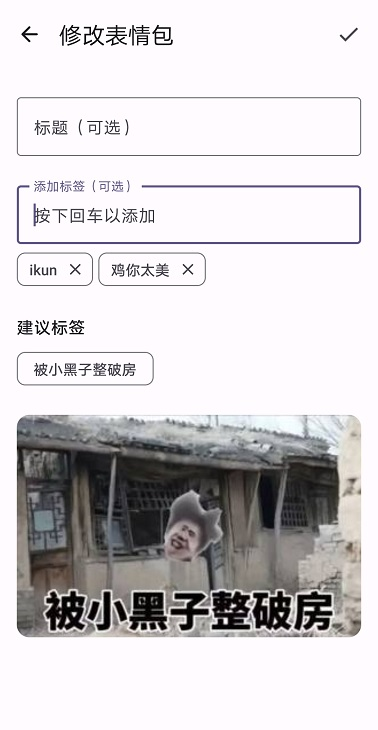
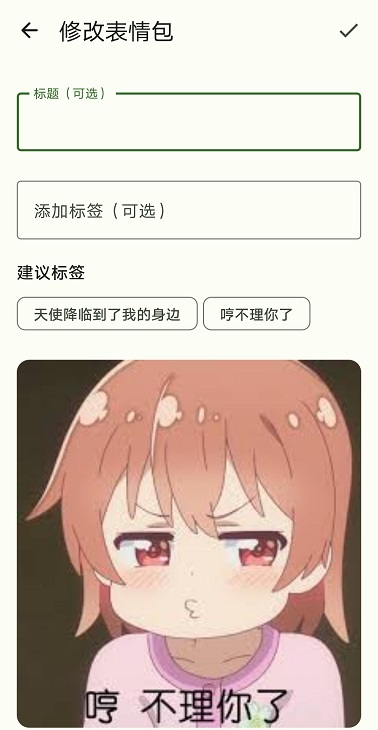
[optimize|doc]添加标签时判重；更新README

diff --git a/app/src/main/java/com/skyd/rays/ui/screen/add/AddScreen.kt b/app/src/main/java/com/skyd/rays/ui/screen/add/AddScreen.kt
@@ -32,6 +32,7 @@ import androidx.lifecycle.compose.collectAsStateWithLifecycle
 import com.skyd.rays.R
 import com.skyd.rays.appContext
 import com.skyd.rays.config.refreshStickerData
+import com.skyd.rays.ext.addIfAny
 import com.skyd.rays.ext.plus
 import com.skyd.rays.ext.popBackStackWithLifecycle
 import com.skyd.rays.model.bean.StickerBean
@@ -102,7 +103,7 @@ fun AddScreen(initStickerUuid: String, sticker: Uri?, viewModel: AddViewModel = 
                                 val stickerWithTags = StickerWithTags(
                                     sticker = StickerBean(title = titleText)
                                         .apply { uuid = stickerUuid },
-                                    tags = tags.toList()
+                                    tags = tags.distinct()
                                 )
                                 viewModel.sendUiIntent(
                                     AddIntent.AddNewStickerWithTags(stickerWithTags, stickerUri!!)
@@ -151,7 +152,7 @@ fun AddScreen(initStickerUuid: String, sticker: Uri?, viewModel: AddViewModel = 
                     keyboardOptions = KeyboardOptions(imeAction = ImeAction.Done),
                     keyboardActions = KeyboardActions(onDone = {
                         if (currentTagText.isNotBlank()) {
-                            tags.add(TagBean(tag = currentTagText))
+                            tags.addIfAny(TagBean(tag = currentTagText)) { it.tag != currentTagText }
                         } else {
                             keyboardController?.hide()
                             focusManager.clearFocus()
@@ -209,13 +210,13 @@ fun AddScreen(initStickerUuid: String, sticker: Uri?, viewModel: AddViewModel = 
                         ) {
                             repeat(stickerTexts.size) { index ->
                                 SuggestionChip(
-                                    modifier = Modifier.combinedClickable {  },
+                                    modifier = Modifier.combinedClickable { },
                                     label = { Text(stickerTexts[index]) },
                                     onClick = {
                                         val text = stickerTexts[index]
                                         stickerTexts.removeAt(index)
                                         currentTagText = text
-                                        tags.add(TagBean(tag = text))
+                                        tags.addIfAny(TagBean(tag = text)) { it.tag != text }
                                     },
                                 )
                             }
@@ -225,7 +226,7 @@ fun AddScreen(initStickerUuid: String, sticker: Uri?, viewModel: AddViewModel = 
             }
             item {
                 RaysCard(
-                    modifier = Modifier.padding(top = 20.dp),
+                    modifier = Modifier.padding(vertical = 20.dp),
                     colors = CardDefaults.cardColors(Color.Transparent),
                     onClick = { pickStickerLauncher.launch("image/*") }
                 ) {
@@ -276,7 +277,7 @@ fun AddScreen(initStickerUuid: String, sticker: Uri?, viewModel: AddViewModel = 
                     titleText = stickerBean.title
                     stickerUri = stickerUuidToUri(stickerBean.uuid)
                     tags.clear()
-                    tags.addAll(getStickersWithTagsUiState.stickerWithTags.tags)
+                    tags.addAll(getStickersWithTagsUiState.stickerWithTags.tags.distinct())
                 }
                 GetStickersWithTagsUiState.Failed -> {}
                 GetStickersWithTagsUiState.Init -> {}

diff --git a/app/src/main/java/com/skyd/rays/ui/screen/settings/SettingsScreen.kt b/app/src/main/java/com/skyd/rays/ui/screen/settings/SettingsScreen.kt
@@ -75,14 +75,14 @@ fun SettingsScreen() {
                     onClick = { navController.navigate(ML_SCREEN_ROUTE) }
                 )
             }
-            item {
-                BaseSettingsItem(
-                    icon = rememberVectorPainter(Icons.Default.AccessibilityNew),
-                    text = stringResource(id = R.string.easy_usage_screen_name),
-                    descriptionText = stringResource(id = R.string.setting_screen_easy_usage_description),
-                    onClick = { navController.navigate(EASY_USAGE_SCREEN_ROUTE) }
-                )
-            }
+//            item {
+//                BaseSettingsItem(
+//                    icon = rememberVectorPainter(Icons.Default.AccessibilityNew),
+//                    text = stringResource(id = R.string.easy_usage_screen_name),
+//                    descriptionText = stringResource(id = R.string.setting_screen_easy_usage_description),
+//                    onClick = { navController.navigate(EASY_USAGE_SCREEN_ROUTE) }
+//                )
+//            }
         }
     }
 }

diff --git a/app/src/main/java/com/skyd/rays/ext/CollectionExt.kt b/app/src/main/java/com/skyd/rays/ext/CollectionExt.kt
@@ -1,0 +1,7 @@
+package com.skyd.rays.ext
+
+inline fun <T> MutableCollection<T>.addIfAny(data: T, predicate: (T) -> Boolean) {
+    if (find { !predicate(it) } == null) {
+        this += data
+    }
+}

diff --git a/README.md b/README.md
@@ -19,7 +19,7 @@
         <a href="https://discord.gg/pEWEjeJTa3" style="text-decoration:none" >
             <img src="https://img.shields.io/discord/982522006819991622?color=5865F2&label=Discord&logo=discord&logoColor=white&style=for-the-badge" alt="Discord"/>
         </a>
-	</p>
+    </p>
     <p>
         <b>Rays (Record All Your Stickers)</b>，一个在本地<b>记录、查找、管理表情包</b>的工具。
     </p>
@@ -31,25 +31,26 @@
     </p>
 </div>
 
-
-
-
 ## 💡主要功能
 
 1. 支持为表情包打**标签**
 2. 支持设置**搜索域**（设置搜索**数据库表的字段**）
 3. 支持使用**正则表达式搜索**
-5. 支持**使用 WebDAV 同步**数据
-9. 支持**更换和自定义主题色**
-10. 支持**深色模式**
-11. ......
+4. 支持**识别**表情包中的**文本**
+5. 支持 **Ai 推荐表情包标签**（支持更换模型）
+6. 支持**使用 WebDAV 同步**数据
+7. 支持通过**系统“分享”页面导入**表情包
+8. 支持**更换和自定义主题色**
+9. 支持**深色模式**
+10. ......
 
 ## 🤩应用截图
+
 ![ic_home_screen](image/ic_home_screen.jpg) ![ic_home_screen_search](image/ic_home_screen_search.jpg)
 ![ic_add_screen_edit](image/ic_add_screen_edit.jpg) ![ic_home_screen_share](image/ic_home_screen_share.jpg)
 ![ic_appearance_screen](image/ic_appearance_screen.jpg) ![ic_webdav_screen](image/ic_webdav_screen.jpg)
 ![ic_search_config_screen](image/ic_search_config_screen.jpg) ![ic_more_screen](image/ic_more_screen.jpg)
-![ic_about_screen](image/ic_about_screen.jpg)
+![ic_settings_screen](image/ic_settings_screen.jpg) ![ic_about_screen](image/ic_about_screen.jpg)
 
 ## 🔍搜索示例
 
@@ -69,27 +70,27 @@
   </tr>
   <tr>
     <td>搜索仅为“原神”两个字的内容</td>
-    <td>原神&nbsp;或者&nbsp;^原神$</td>
+    <td>原神 或者 ^原神$</td>
     <td>⚠无法实现</td>
   </tr>
   <tr>
-    <td>搜索带有“发电”&nbsp;或&nbsp;带有“原神”关键词的内容</td>
+    <td>搜索带有“发电” 或 带有“原神”关键词的内容</td>
     <td>.*发电.*|.*原神.*</td>
     <td>⚠无法实现</td>
   </tr>
   <tr>
-    <td>搜索仅为“发电”两个字&nbsp;或&nbsp;仅为“原神”两个字的内容</td>
-    <td>发电|原神&nbsp;或者&nbsp;^发电$|^原神$</td>
+    <td>搜索仅为“发电”两个字 或 仅为“原神”两个字的内容</td>
+    <td>发电|原神 或者 ^发电$|^原神$</td>
     <td>⚠无法实现</td>
   </tr>
   <tr>
-    <td>搜索带有“发电”&nbsp;且&nbsp;带有“原神”关键词的内容</td>
-    <td>.*发电.*&nbsp;&nbsp;&nbsp;.*原神.*</td>
-    <td>发电&nbsp;&nbsp;&nbsp;原神</td>
+    <td>搜索带有“发电” 且 带有“原神”关键词的内容</td>
+    <td>.*发电.*   .*原神.*</td>
+    <td>发电   原神</td>
   </tr>
   <tr>
-    <td>搜索带有（“发电”&nbsp;且&nbsp;带有“原神”）&nbsp;或&nbsp;带有“ikun”关键词的内容</td>
-    <td>.*发电.*|.*ikun.*&nbsp;&nbsp;&nbsp;.*原神.*|.*ikun.*</td>
+    <td>搜索带有（“发电” 且 带有“原神”） 或 带有“ikun”关键词的内容</td>
+    <td>.*发电.*|.*ikun.*   .*原神.*|.*ikun.*</td>
     <td>⚠无法实现</td>
   </tr>
 </tbody>
@@ -103,6 +104,7 @@
 - **Material You**
 - **ViewModel**
 - **Hilt**
+- **ML Kit** (Machine Learning)
 - **DataStore**
 - Room
 - Splash Screen
@@ -132,7 +134,6 @@
   </tr>
 </tbody>
 </table>
-
 
 ## 📃许可证
 
